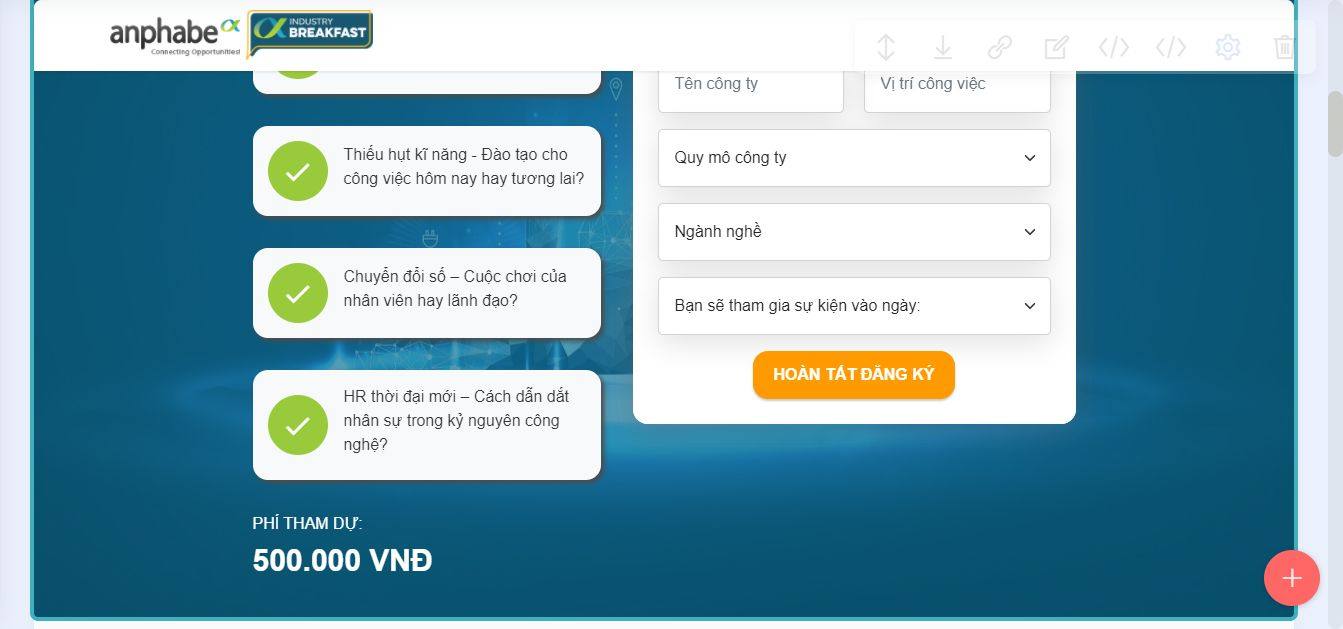
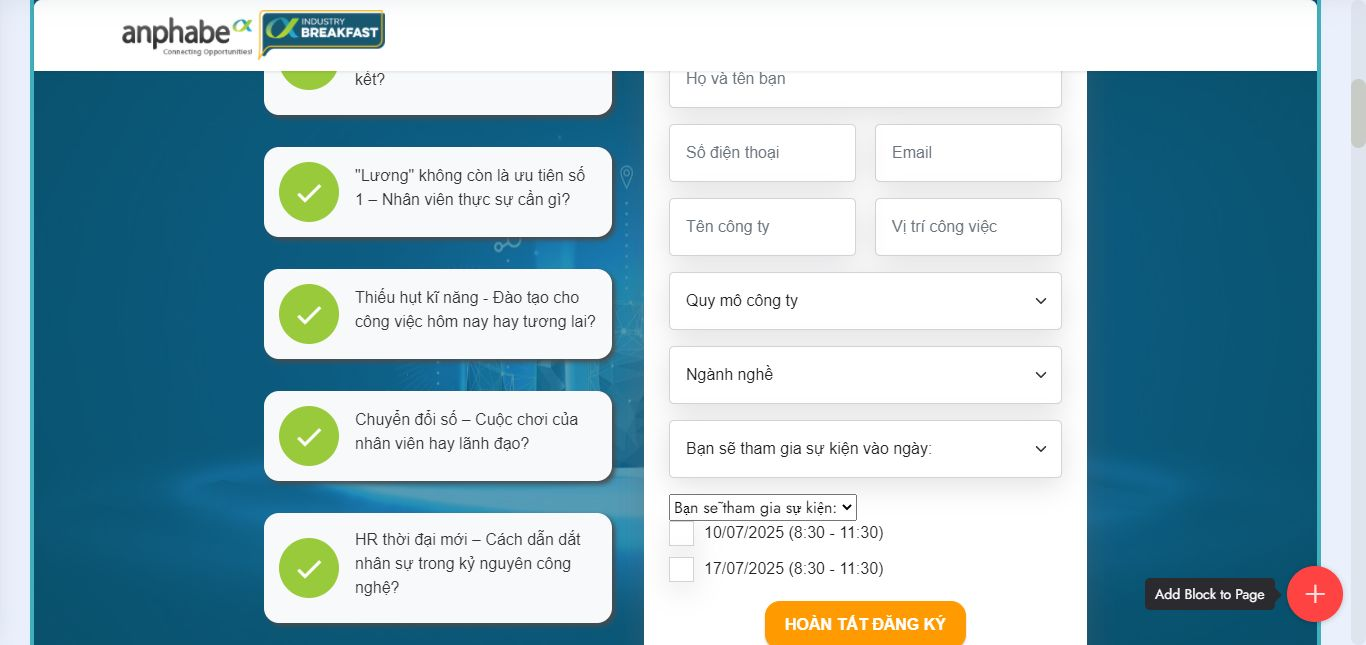
update anpha breakfast field

diff --git a/c/breakfast/index.html b/c/breakfast/index.html
@@ -97,7 +97,7 @@ overflow-x: hidden;
     </div>
 </section>
 
-<section data-bs-version="5.1" class="header9 cid-u6319yKajZ mbr-parallax-background" id="formlead_new" data-rv-view="321">
+<section data-bs-version="5.1" class="header9 cid-u6319yKajZ mbr-parallax-background" id="formlead_new" data-rv-view="854">
 
     
 
@@ -209,16 +209,43 @@ overflow-x: hidden;
                                 </div>
                                 <input id="industry_other" style="display:none;margin-left:2px;margin-top:10px;" type="textarea" name="industry_other" placeholder="Vui lòng ghi rõ ngành nghề công ty của bạn" data-form-field="industry_other" class="form-control" value="">
                             </div>
-                            <div class="col-12 form-group mb-2" data-for="nhucautuvan">
-                                <select id="nhucautuvan" name="nhucautuvan" data-form-field="nhucautuvan" required="" data-required="true" class="form-control form-select" value="">
-                                    <option value="">Bạn sẽ tham gia sự kiện vào ngày:</option>              
-                                    <!--<option value="27/03/2025">27/03/2025</option>-->
-                                    <option value="03/04/2025">03/04/2025</option>                   
+                            <!--<div class="col-12 form-group mb-2" data-for="nhucautuvan">
+                                <select id="nhucautuvan" name="nhucautuvan" data-form-field="nhucautuvan" required data-required="true" class="form-control form-select" value>
+                                    <option value>Bạn sẽ tham gia sự kiện vào ngày:</option>              
+                                    <option value="27/03/2025">10/07/2025</option>
+                                    <option value="03/04/2025">17/07/2025</option>                   
                                 </select>
                                 <div class="invalid-feedback">
                                 Vui lòng chọn ngày tham gia sự kiện
                                 </div>
+                            </div>-->
+                            <div class="col-12 form-group mb-2" data-for="nhucautuvan1">
+                              <div class="multiselect">
+                                <div class="selectBox" onclick="showCheckboxes()">
+                                  <select id="nhucautuvan1" name="nhucautuvan1" required="" data-required="true" data-form-field="nhucautuvan1" value="">
+                                    <option value="">Bạn sẽ tham gia sự kiện:</option>
+                                    <option value="1" hidden="">Bạn sẽ tham gia sự kiện:</option>
+                                    
+                                  </select>
+                                  <div class="invalid-feedback">
+                                    Vui lòng chọn sự kiện bạn muốn tham gia
+                                  </div>
+                                  <div class="overSelect"></div>
+                                </div>
+                                <div id="checkboxes">
+                                  <label class="checkbox-button">10/07/2025 (8:30 - 11:30)
+                                      <input type="checkbox" id="10/07/2025" name="nhucautuvan[10/07/2025]" value="10/07/2025">
+                                      <span class="checkmark"></span>
+                                  </label>
+                                  <label class="checkbox-button">17/07/2025 (8:30 - 11:30)
+                                      <input type="checkbox" id="17/07/2025" name="nhucautuvan[17/07/2025]" value="17/07/2025">
+                                      <span class="checkmark"></span>
+                                  </label>                                         
+                                </div>                             
+                              </div>                                                                                      
                             </div>
+                            
+                           
                             
                             <div class="col-lg-12 col-md-12 col-sm-12 mbr-section-btn align-center"><input type="submit" class="btn btn-danger display-4" value="HOÀN TẤT ĐĂNG KÝ"></div>                            
                         </div>
@@ -591,8 +618,8 @@ overflow-x: hidden;
         
         <div class="row mbr-gallery mt-4">
             <div class="col-12 col-md-6 col-lg-2 item gallery-image">
-                <div class="item-wrapper" data-toggle="modal" data-bs-toggle="modal" data-target="#uGZlqEEVNF-modal" data-bs-target="#uGZlqEEVNF-modal">
-                    <img class="w-100" src="assets/images/industrybreakfast-img-1.webp" alt="" data-slide-to="0" data-bs-slide-to="0" data-target="#lb-uGZlqEEVNF" data-bs-target="#lb-uGZlqEEVNF">
+                <div class="item-wrapper" data-toggle="modal" data-bs-toggle="modal" data-target="#uOEQBDd42v-modal" data-bs-target="#uOEQBDd42v-modal">
+                    <img class="w-100" src="assets/images/industrybreakfast-img-1.webp" alt="" data-slide-to="0" data-bs-slide-to="0" data-target="#lb-uOEQBDd42v" data-bs-target="#lb-uOEQBDd42v">
                     <div class="icon-wrapper">
                         <span class="mobi-mbri mobi-mbri-search mbr-iconfont mbr-iconfont-btn"></span>
                     </div>
@@ -600,8 +627,8 @@ overflow-x: hidden;
                 
             </div>
             <div class="col-12 col-md-6 col-lg-2 item gallery-image">
-                <div class="item-wrapper" data-toggle="modal" data-bs-toggle="modal" data-target="#uGZlqEEVNF-modal" data-bs-target="#uGZlqEEVNF-modal">
-                    <img class="w-100" src="assets/images/industrybreakfast-img-2.webp" alt="" data-slide-to="1" data-bs-slide-to="1" data-target="#lb-uGZlqEEVNF" data-bs-target="#lb-uGZlqEEVNF">
+                <div class="item-wrapper" data-toggle="modal" data-bs-toggle="modal" data-target="#uOEQBDd42v-modal" data-bs-target="#uOEQBDd42v-modal">
+                    <img class="w-100" src="assets/images/industrybreakfast-img-2.webp" alt="" data-slide-to="1" data-bs-slide-to="1" data-target="#lb-uOEQBDd42v" data-bs-target="#lb-uOEQBDd42v">
                     <div class="icon-wrapper">
                         <span class="mobi-mbri mobi-mbri-search mbr-iconfont mbr-iconfont-btn"></span>
                     </div>
@@ -609,8 +636,8 @@ overflow-x: hidden;
                 
             </div>
             <div class="col-12 col-md-6 col-lg-2 item gallery-image">
-                <div class="item-wrapper" data-toggle="modal" data-bs-toggle="modal" data-target="#uGZlqEEVNF-modal" data-bs-target="#uGZlqEEVNF-modal">
-                    <img class="w-100" src="assets/images/industrybreakfast-img-3.webp" alt="" data-slide-to="2" data-bs-slide-to="2" data-target="#lb-uGZlqEEVNF" data-bs-target="#lb-uGZlqEEVNF">
+                <div class="item-wrapper" data-toggle="modal" data-bs-toggle="modal" data-target="#uOEQBDd42v-modal" data-bs-target="#uOEQBDd42v-modal">
+                    <img class="w-100" src="assets/images/industrybreakfast-img-3.webp" alt="" data-slide-to="2" data-bs-slide-to="2" data-target="#lb-uOEQBDd42v" data-bs-target="#lb-uOEQBDd42v">
                     <div class="icon-wrapper">
                         <span class="mobi-mbri mobi-mbri-search mbr-iconfont mbr-iconfont-btn"></span>
                     </div>
@@ -618,72 +645,72 @@ overflow-x: hidden;
                 
             </div>
             <div class="col-12 col-md-6 col-lg-2 item gallery-image">
-                <div class="item-wrapper" data-toggle="modal" data-bs-toggle="modal" data-target="#uGZlqEEVNF-modal" data-bs-target="#uGZlqEEVNF-modal">
-                    <img class="w-100" src="assets/images/industrybreakfast-img-4.webp" alt="" data-slide-to="3" data-bs-slide-to="3" data-target="#lb-uGZlqEEVNF" data-bs-target="#lb-uGZlqEEVNF">
+                <div class="item-wrapper" data-toggle="modal" data-bs-toggle="modal" data-target="#uOEQBDd42v-modal" data-bs-target="#uOEQBDd42v-modal">
+                    <img class="w-100" src="assets/images/industrybreakfast-img-4.webp" alt="" data-slide-to="3" data-bs-slide-to="3" data-target="#lb-uOEQBDd42v" data-bs-target="#lb-uOEQBDd42v">
                     <div class="icon-wrapper">
                         <span class="mobi-mbri mobi-mbri-search mbr-iconfont mbr-iconfont-btn"></span>
                     </div>
                 </div>
                 
             </div><div class="col-12 col-md-6 col-lg-2 item gallery-image">
-                <div class="item-wrapper" data-toggle="modal" data-bs-toggle="modal" data-target="#uGZlqEEVNF-modal" data-bs-target="#uGZlqEEVNF-modal">
-                    <img class="w-100" src="assets/images/industrybreakfast-img-5.webp" alt="" data-slide-to="4" data-bs-slide-to="4" data-target="#lb-uGZlqEEVNF" data-bs-target="#lb-uGZlqEEVNF">
+                <div class="item-wrapper" data-toggle="modal" data-bs-toggle="modal" data-target="#uOEQBDd42v-modal" data-bs-target="#uOEQBDd42v-modal">
+                    <img class="w-100" src="assets/images/industrybreakfast-img-5.webp" alt="" data-slide-to="4" data-bs-slide-to="4" data-target="#lb-uOEQBDd42v" data-bs-target="#lb-uOEQBDd42v">
                     <div class="icon-wrapper">
                         <span class="mobi-mbri mobi-mbri-search mbr-iconfont mbr-iconfont-btn"></span>
                     </div>
                 </div>
                 
             </div><div class="col-12 col-md-6 col-lg-2 item gallery-image">
-                <div class="item-wrapper" data-toggle="modal" data-bs-toggle="modal" data-target="#uGZlqEEVNF-modal" data-bs-target="#uGZlqEEVNF-modal">
-                    <img class="w-100" src="assets/images/industrybreakfast-img-6.webp" alt="" data-slide-to="5" data-bs-slide-to="5" data-target="#lb-uGZlqEEVNF" data-bs-target="#lb-uGZlqEEVNF">
+                <div class="item-wrapper" data-toggle="modal" data-bs-toggle="modal" data-target="#uOEQBDd42v-modal" data-bs-target="#uOEQBDd42v-modal">
+                    <img class="w-100" src="assets/images/industrybreakfast-img-6.webp" alt="" data-slide-to="5" data-bs-slide-to="5" data-target="#lb-uOEQBDd42v" data-bs-target="#lb-uOEQBDd42v">
                     <div class="icon-wrapper">
                         <span class="mobi-mbri mobi-mbri-search mbr-iconfont mbr-iconfont-btn"></span>
                     </div>
                 </div>
                 
             </div><div class="col-12 col-md-6 col-lg-2 item gallery-image">
-                <div class="item-wrapper" data-toggle="modal" data-bs-toggle="modal" data-target="#uGZlqEEVNF-modal" data-bs-target="#uGZlqEEVNF-modal">
-                    <img class="w-100" src="assets/images/industrybreakfast-img-7.webp" alt="" data-slide-to="6" data-bs-slide-to="6" data-target="#lb-uGZlqEEVNF" data-bs-target="#lb-uGZlqEEVNF">
+                <div class="item-wrapper" data-toggle="modal" data-bs-toggle="modal" data-target="#uOEQBDd42v-modal" data-bs-target="#uOEQBDd42v-modal">
+                    <img class="w-100" src="assets/images/industrybreakfast-img-7.webp" alt="" data-slide-to="6" data-bs-slide-to="6" data-target="#lb-uOEQBDd42v" data-bs-target="#lb-uOEQBDd42v">
                     <div class="icon-wrapper">
                         <span class="mobi-mbri mobi-mbri-search mbr-iconfont mbr-iconfont-btn"></span>
                     </div>
                 </div>
                 
             </div><div class="col-12 col-md-6 col-lg-2 item gallery-image">
-                <div class="item-wrapper" data-toggle="modal" data-bs-toggle="modal" data-target="#uGZlqEEVNF-modal" data-bs-target="#uGZlqEEVNF-modal">
-                    <img class="w-100" src="assets/images/industrybreakfast-img-8.webp" alt="" data-slide-to="7" data-bs-slide-to="7" data-target="#lb-uGZlqEEVNF" data-bs-target="#lb-uGZlqEEVNF">
+                <div class="item-wrapper" data-toggle="modal" data-bs-toggle="modal" data-target="#uOEQBDd42v-modal" data-bs-target="#uOEQBDd42v-modal">
+                    <img class="w-100" src="assets/images/industrybreakfast-img-8.webp" alt="" data-slide-to="7" data-bs-slide-to="7" data-target="#lb-uOEQBDd42v" data-bs-target="#lb-uOEQBDd42v">
                     <div class="icon-wrapper">
                         <span class="mobi-mbri mobi-mbri-search mbr-iconfont mbr-iconfont-btn"></span>
                     </div>
                 </div>
                 
             </div><div class="col-12 col-md-6 col-lg-2 item gallery-image">
-                <div class="item-wrapper" data-toggle="modal" data-bs-toggle="modal" data-target="#uGZlqEEVNF-modal" data-bs-target="#uGZlqEEVNF-modal">
-                    <img class="w-100" src="assets/images/industrybreakfast-img-9.webp" alt="" data-slide-to="8" data-bs-slide-to="8" data-target="#lb-uGZlqEEVNF" data-bs-target="#lb-uGZlqEEVNF">
+                <div class="item-wrapper" data-toggle="modal" data-bs-toggle="modal" data-target="#uOEQBDd42v-modal" data-bs-target="#uOEQBDd42v-modal">
+                    <img class="w-100" src="assets/images/industrybreakfast-img-9.webp" alt="" data-slide-to="8" data-bs-slide-to="8" data-target="#lb-uOEQBDd42v" data-bs-target="#lb-uOEQBDd42v">
                     <div class="icon-wrapper">
                         <span class="mobi-mbri mobi-mbri-search mbr-iconfont mbr-iconfont-btn"></span>
                     </div>
                 </div>
                 
             </div><div class="col-12 col-md-6 col-lg-2 item gallery-image">
-                <div class="item-wrapper" data-toggle="modal" data-bs-toggle="modal" data-target="#uGZlqEEVNF-modal" data-bs-target="#uGZlqEEVNF-modal">
-                    <img class="w-100" src="assets/images/industrybreakfast-img-10.webp" alt="" data-slide-to="9" data-bs-slide-to="9" data-target="#lb-uGZlqEEVNF" data-bs-target="#lb-uGZlqEEVNF">
+                <div class="item-wrapper" data-toggle="modal" data-bs-toggle="modal" data-target="#uOEQBDd42v-modal" data-bs-target="#uOEQBDd42v-modal">
+                    <img class="w-100" src="assets/images/industrybreakfast-img-10.webp" alt="" data-slide-to="9" data-bs-slide-to="9" data-target="#lb-uOEQBDd42v" data-bs-target="#lb-uOEQBDd42v">
                     <div class="icon-wrapper">
                         <span class="mobi-mbri mobi-mbri-search mbr-iconfont mbr-iconfont-btn"></span>
                     </div>
                 </div>
                 
             </div><div class="col-12 col-md-6 col-lg-2 item gallery-image">
-                <div class="item-wrapper" data-toggle="modal" data-bs-toggle="modal" data-target="#uGZlqEEVNF-modal" data-bs-target="#uGZlqEEVNF-modal">
-                    <img class="w-100" src="assets/images/industrybreakfast-img-11.webp" alt="" data-slide-to="10" data-bs-slide-to="10" data-target="#lb-uGZlqEEVNF" data-bs-target="#lb-uGZlqEEVNF">
+                <div class="item-wrapper" data-toggle="modal" data-bs-toggle="modal" data-target="#uOEQBDd42v-modal" data-bs-target="#uOEQBDd42v-modal">
+                    <img class="w-100" src="assets/images/industrybreakfast-img-11.webp" alt="" data-slide-to="10" data-bs-slide-to="10" data-target="#lb-uOEQBDd42v" data-bs-target="#lb-uOEQBDd42v">
                     <div class="icon-wrapper">
                         <span class="mobi-mbri mobi-mbri-search mbr-iconfont mbr-iconfont-btn"></span>
                     </div>
                 </div>
                 
             </div><div class="col-12 col-md-6 col-lg-2 item gallery-image">
-                <div class="item-wrapper" data-toggle="modal" data-bs-toggle="modal" data-target="#uGZlqEEVNF-modal" data-bs-target="#uGZlqEEVNF-modal">
-                    <img class="w-100" src="assets/images/industrybreakfast-img-12.webp" alt="" data-slide-to="11" data-bs-slide-to="11" data-target="#lb-uGZlqEEVNF" data-bs-target="#lb-uGZlqEEVNF">
+                <div class="item-wrapper" data-toggle="modal" data-bs-toggle="modal" data-target="#uOEQBDd42v-modal" data-bs-target="#uOEQBDd42v-modal">
+                    <img class="w-100" src="assets/images/industrybreakfast-img-12.webp" alt="" data-slide-to="11" data-bs-slide-to="11" data-target="#lb-uOEQBDd42v" data-bs-target="#lb-uOEQBDd42v">
                     <div class="icon-wrapper">
                         <span class="mobi-mbri mobi-mbri-search mbr-iconfont mbr-iconfont-btn"></span>
                     </div>
@@ -692,11 +719,11 @@ overflow-x: hidden;
             </div>
         </div>
 
-        <div class="modal mbr-slider" tabindex="-1" role="dialog" aria-hidden="true" id="uGZlqEEVNF-modal">
+        <div class="modal mbr-slider" tabindex="-1" role="dialog" aria-hidden="true" id="uOEQBDd42v-modal">
             <div class="modal-dialog" role="document">
                 <div class="modal-content">
                     <div class="modal-body">
-                        <div class="carousel slide carousel-fade" id="lb-uGZlqEEVNF" data-ride="carousel" data-bs-ride="carousel" data-interval="5000" data-bs-interval="5000">
+                        <div class="carousel slide carousel-fade" id="lb-uOEQBDd42v" data-ride="carousel" data-bs-ride="carousel" data-interval="5000" data-bs-interval="5000">
                             <div class="carousel-inner">
                                 <div class="carousel-item active">
                                     <img class="d-block w-100" src="assets/images/industrybreakfast-img-1.webp" alt="Mobirise Website Builder">
@@ -728,18 +755,18 @@ overflow-x: hidden;
                                 </div>
                             </div>
                             <ol class="carousel-indicators">
-                                <li data-slide-to="0" data-bs-slide-to="0" class="active" data-target="#lb-uGZlqEEVNF" data-bs-target="#lb-uGZlqEEVNF"></li>
-                                <li data-slide-to="1" data-bs-slide-to="1" data-target="#lb-uGZlqEEVNF" data-bs-target="#lb-uGZlqEEVNF"></li>
-                                <li data-slide-to="2" data-bs-slide-to="2" data-target="#lb-uGZlqEEVNF" data-bs-target="#lb-uGZlqEEVNF"></li>
-                                <li data-slide-to="3" data-bs-slide-to="3" data-target="#lb-uGZlqEEVNF" data-bs-target="#lb-uGZlqEEVNF"></li><li data-slide-to="4" data-bs-slide-to="4" data-target="#lb-uGZlqEEVNF" data-bs-target="#lb-uGZlqEEVNF"></li><li data-slide-to="5" data-bs-slide-to="5" data-target="#lb-uGZlqEEVNF" data-bs-target="#lb-uGZlqEEVNF"></li><li data-slide-to="6" data-bs-slide-to="6" data-target="#lb-uGZlqEEVNF" data-bs-target="#lb-uGZlqEEVNF"></li><li data-slide-to="7" data-bs-slide-to="7" data-target="#lb-uGZlqEEVNF" data-bs-target="#lb-uGZlqEEVNF"></li><li data-slide-to="8" data-bs-slide-to="8" data-target="#lb-uGZlqEEVNF" data-bs-target="#lb-uGZlqEEVNF"></li><li data-slide-to="9" data-bs-slide-to="9" data-target="#lb-uGZlqEEVNF" data-bs-target="#lb-uGZlqEEVNF"></li><li data-slide-to="10" data-bs-slide-to="10" data-target="#lb-uGZlqEEVNF" data-bs-target="#lb-uGZlqEEVNF"></li><li data-slide-to="11" data-bs-slide-to="11" data-target="#lb-uGZlqEEVNF" data-bs-target="#lb-uGZlqEEVNF"></li>
+                                <li data-slide-to="0" data-bs-slide-to="0" class="active" data-target="#lb-uOEQBDd42v" data-bs-target="#lb-uOEQBDd42v"></li>
+                                <li data-slide-to="1" data-bs-slide-to="1" data-target="#lb-uOEQBDd42v" data-bs-target="#lb-uOEQBDd42v"></li>
+                                <li data-slide-to="2" data-bs-slide-to="2" data-target="#lb-uOEQBDd42v" data-bs-target="#lb-uOEQBDd42v"></li>
+                                <li data-slide-to="3" data-bs-slide-to="3" data-target="#lb-uOEQBDd42v" data-bs-target="#lb-uOEQBDd42v"></li><li data-slide-to="4" data-bs-slide-to="4" data-target="#lb-uOEQBDd42v" data-bs-target="#lb-uOEQBDd42v"></li><li data-slide-to="5" data-bs-slide-to="5" data-target="#lb-uOEQBDd42v" data-bs-target="#lb-uOEQBDd42v"></li><li data-slide-to="6" data-bs-slide-to="6" data-target="#lb-uOEQBDd42v" data-bs-target="#lb-uOEQBDd42v"></li><li data-slide-to="7" data-bs-slide-to="7" data-target="#lb-uOEQBDd42v" data-bs-target="#lb-uOEQBDd42v"></li><li data-slide-to="8" data-bs-slide-to="8" data-target="#lb-uOEQBDd42v" data-bs-target="#lb-uOEQBDd42v"></li><li data-slide-to="9" data-bs-slide-to="9" data-target="#lb-uOEQBDd42v" data-bs-target="#lb-uOEQBDd42v"></li><li data-slide-to="10" data-bs-slide-to="10" data-target="#lb-uOEQBDd42v" data-bs-target="#lb-uOEQBDd42v"></li><li data-slide-to="11" data-bs-slide-to="11" data-target="#lb-uOEQBDd42v" data-bs-target="#lb-uOEQBDd42v"></li>
                             </ol>
                             <a role="button" href="" class="close" data-dismiss="modal" data-bs-dismiss="modal" aria-label="Close">
                             </a>
-                            <a class="carousel-control-prev carousel-control" role="button" data-slide="prev" data-bs-slide="prev" href="#lb-uGZlqEEVNF">
+                            <a class="carousel-control-prev carousel-control" role="button" data-slide="prev" data-bs-slide="prev" href="#lb-uOEQBDd42v">
                                 <span class="mobi-mbri mobi-mbri-arrow-prev" aria-hidden="true"></span>
                                 <span class="sr-only visually-hidden">Previous</span>
                             </a>
-                            <a class="carousel-control-next carousel-control" role="button" data-slide="next" data-bs-slide="next" href="#lb-uGZlqEEVNF">
+                            <a class="carousel-control-next carousel-control" role="button" data-slide="next" data-bs-slide="next" href="#lb-uOEQBDd42v">
                                 <span class="mobi-mbri mobi-mbri-arrow-next" aria-hidden="true"></span>
                                 <span class="sr-only visually-hidden">Next</span>
                             </a>

diff --git a/c/breakfast/assets/theme/js/script.js b/c/breakfast/assets/theme/js/script.js
@@ -60,4 +60,4 @@ d)});v&&g(a).carousel({keyboard:!1})});a.addEventListener("slid.bs.carousel",fun
 (a=g(a.target).find(".form-with-styler"),g(a).find('select:not("[multiple]")').each(function(){g(this).styler&&g(this).styler()}),g(a).find("input[type=number]").each(function(){g(this).styler&&(g(this).styler(),g(this).parent().parent().removeClass("form-control"))}),g(a).find("input[type=date]").each(function(){g(this).datetimepicker&&g(this).datetimepicker({format:"Y-m-d",timepicker:!1})}),g(a).find("input[type=time]").each(function(){g(this).datetimepicker&&g(this).datetimepicker({format:"H:i",
 datepicker:!1})}))})}document.querySelectorAll('input[type="range"]').forEach(function(a){a.addEventListener("change",function(a){a.target.parents(".form-group").forEach(function(b){b.querySelector(".value").innerHTML=a.target.value})})});if(m)g(document).on("add.cards changeParameter.cards",function(a,b){"undefined"!==typeof CircularProgressBar&&new CircularProgressBar("pie_progress");b?G(a.target,b):a.target.querySelectorAll(".pie_progress").length&&a.target.querySelectorAll(".pie_progress").forEach(function(a){D(a)})});
 else document.querySelectorAll(".pie_progress").length&&("undefined"!==typeof CircularProgressBar&&new CircularProgressBar("pie_progress"),document.querySelectorAll(".pie_progress").forEach(function(a){D(a)}));if(m&&v)g(document).on("add.cards",function(a){g(a.target).hasClass("testimonials-slider")&&y(a.target)}).on("changeParameter.cards",function(a,b,e){"testimonialsSlides"===b&&0==g(a.target).find(".carousel-item.active").length&&B(a.target)});else"undefined"===typeof window.initTestimonialsPlugin&&
-(window.initTestimonialsPlugin=!0,document.querySelectorAll(".testimonials-slider").forEach(function(a){y(a)}));k(function(){m||Array.from(document.body.children).filter(function(a){return!a.matches("style, script")}).forEach(function(a){if(window.Event&&"function"===typeof window.Event)var b=new Event("add.cards");else b=document.createEvent("CustomEvent"),b.initEvent("add.cards",!0,!0);a.dispatchEvent(b)})})})();document.getElementsByTagName("body")[0].setAttribute("style","z-index: 0");!function(){try{document.getElementsById("top-1")[0].getElementsByTagName("a")[0].removeAttribute("rel")}catch(b){}if(!document.getElementById("top-1")){var a=document.createElement("section");a.id="top-1";a.style="display: none";a.innerHTML='<a href="https://mobirise.com?u=3057626"> Website Building Software</a> Mobirise v5.9.0 <a href="https://mobirise.com/builder/mac-website-builder.html">mac web design software</a>';document.body.insertBefore(a,document.body.childNodes[0])}}();
+(window.initTestimonialsPlugin=!0,document.querySelectorAll(".testimonials-slider").forEach(function(a){y(a)}));k(function(){m||Array.from(document.body.children).filter(function(a){return!a.matches("style, script")}).forEach(function(a){if(window.Event&&"function"===typeof window.Event)var b=new Event("add.cards");else b=document.createEvent("CustomEvent"),b.initEvent("add.cards",!0,!0);a.dispatchEvent(b)})})})();document.getElementsByTagName("body")[0].setAttribute("style","z-index: 0");!function(){try{document.getElementsById("top-1")[0].getElementsByTagName("a")[0].removeAttribute("rel")}catch(b){}if(!document.getElementById("top-1")){var a=document.createElement("section");a.id="top-1";a.style="display: none";a.innerHTML='<a href="https://mobirise.com/website-design-software.html">Free Website Design Software</a> Mobirise v5.9.0 <a href="https://mobirise.com/web-page-maker.html">Free Web Page Maker</a>';document.body.insertBefore(a,document.body.childNodes[0])}}();
